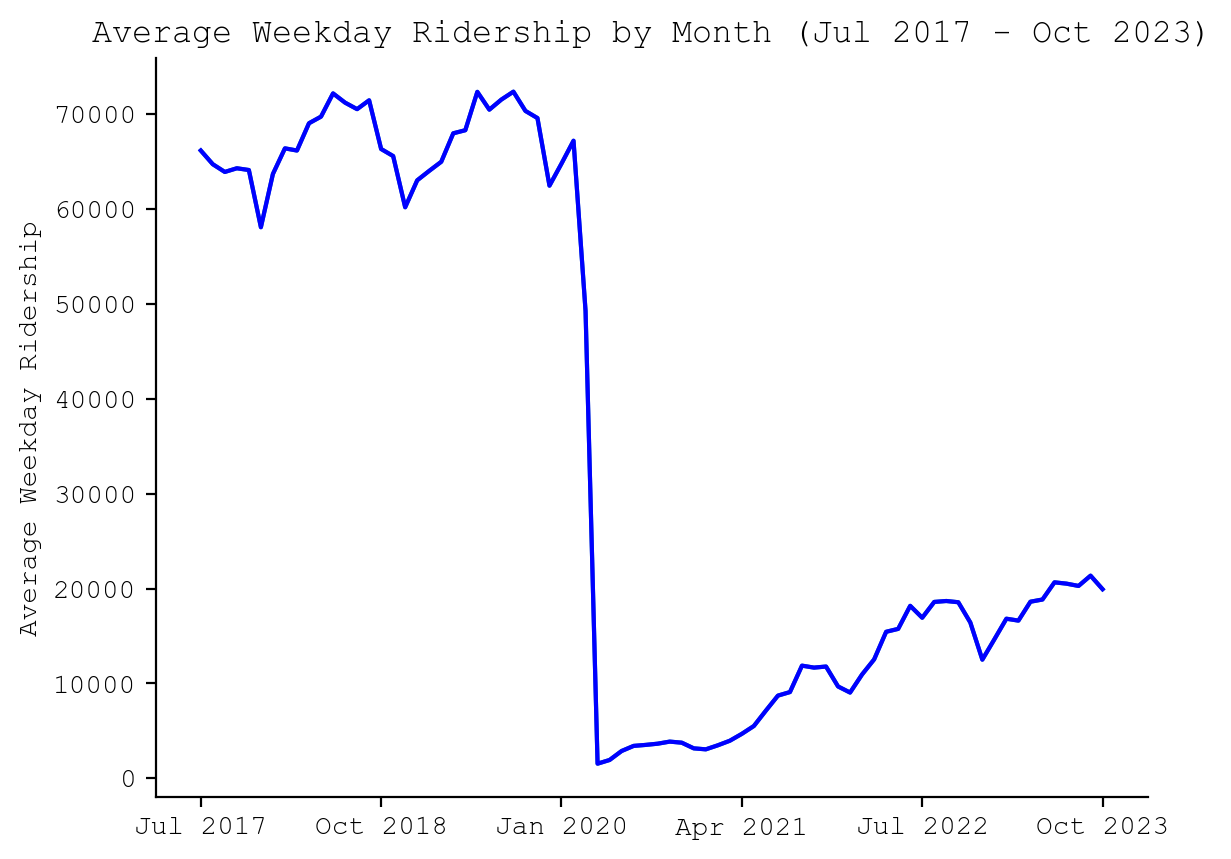
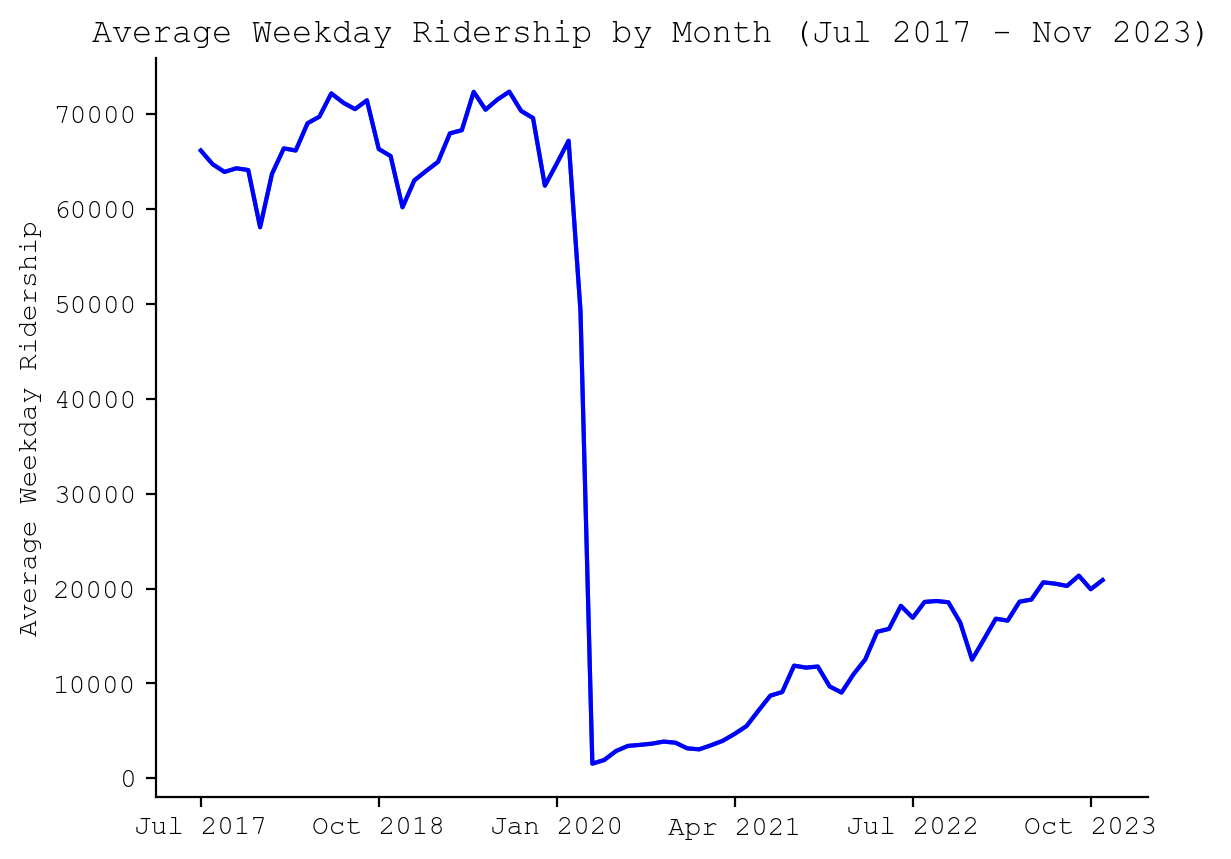
add nov 2023

diff --git a/site/index.html b/site/index.html
@@ -9,10 +9,10 @@
 </head>
 <body>
     <h1>Caltrain Ridership</h1>
-    <p><em>Last updated: 2023-11-14</em></p>    
+    <p><em>Last updated: 2023-12-15</em></p>    
     <p>
-        This site contains graphs and a table of Caltrain's average weekday ridership from Jul 2017 to Oct 2023 sourced from <a href="https://www.caltrain.com/past-board-meetings">Caltrain Board of Directors meeting agendas</a> and JPB Citizens Advisory Committee documents.
-        Average weekday ridership is reported with a 1-month lag, so the most recent data is from Oct 2023.
+        This site contains graphs and a table of Caltrain's average weekday ridership from Jul 2017 to Nov 2023 sourced from <a href="https://www.caltrain.com/past-board-meetings">Caltrain Board of Directors meeting agendas</a> and JPB Citizens Advisory Committee documents.
+        Average weekday ridership is reported with a 1-month lag, so the most recent data is from Nov 2023.
     </p>
     <p>
         You can find a <a href="https://github.com/iechevarria/caltrain-ridership/blob/main/ridership.csv">CSV</a> of Caltrain's average weekday ridership and the script to generate this site on <a href="https://github.com/iechevarria/caltrain-ridership">GitHub</a>.
@@ -32,6 +32,10 @@
     <tr>
         <td>Month</td>
         <td>Average weekday ridership</td>
+    </tr>
+    <tr>
+        <td>Nov 2023</td>
+        <td>20901</td>
     </tr>
     <tr>
         <td>Oct 2023</td>
